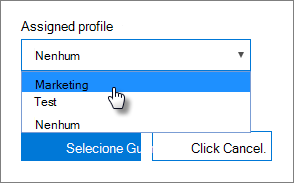
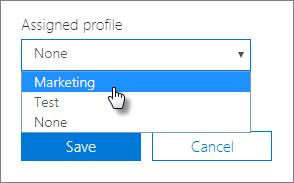
commit translated contents

diff --git a/microsoft-365/business/create-and-edit-autopilot-profiles.md b/microsoft-365/business/create-and-edit-autopilot-profiles.md
@@ -26,13 +26,13 @@ search.appverid:
 - MET150
 - MOE150
 ms.assetid: 5cf7139e-cfa1-4765-8aad-001af1c74faa
-description: Aprenda a criar um perfil AutoPilot e aplique-o num dispositivo, bem como edite ou elimine um perfil ou remova um perfil de um dispositivo.
-ms.openlocfilehash: 414243da88fb6f39f8e6067d19d49ffe955f725f
-ms.sourcegitcommit: 53acc851abf68e2272e75df0856c0e16b0c7e48d
+description: Saiba como criar um perfil AutoPilot e aplicá-lo a um dispositivo, bem como editar ou eliminar um perfil ou remover um perfil de um dispositivo.
+ms.openlocfilehash: d2a3038346b7879006dc2eb50ebe2e70cc6fae92c020a38465cec9d468c638b2
+ms.sourcegitcommit: a1b66e1e80c25d14d67a9b46c79ec7245d88e045
 ms.translationtype: MT
 ms.contentlocale: pt-PT
-ms.lasthandoff: 04/02/2021
-ms.locfileid: "51580260"
+ms.lasthandoff: 08/05/2021
+ms.locfileid: "53797232"
 ---
 # <a name="create-and-edit-autopilot-profiles"></a>Criar e editar perfis AutoPilot
 
@@ -40,21 +40,21 @@ ms.locfileid: "51580260"
 
 Um perfil aplica-se a um dispositivo ou grupo de dispositivos.
   
-1. No centro de administração Microsoft 365, escolha **Dispositivos** \> **AutoPilot**.
+1. Na seta centro de administração do Microsoft 365, **selecionar Dispositivos** \> **AutoPilot**.
   
-2. Na página **AutoPilot,** escolha o **separador Perfis** \> **Criar perfil.**
+2. Na página **AutoPilot,** selecionar o **separador Perfis** \> **Criar perfil.**
     
-3. Na página de **perfil Criar,** insira um nome para o perfil que o ajuda a identificá-lo, por exemplo Marketing. Ligue a definição desejada e, em seguida, escolha **Guardar**. Para obter mais informações sobre as definições de perfil do AutoPilot, consulte [as definições de Perfil do AutoPilot](autopilot-profile-settings.md).
+3. Na página **Criar perfil,** introduza um nome para o perfil que o ajude a identificá-lo, por exemplo Marketing. A turn on the setting you want, and then choose **Save**. Para obter mais informações sobre as definições de perfil AutoPilot, consulte [Acerca das definições do Perfil AutoPilot.](autopilot-profile-settings.md)
     
     ![Enter name and turn on settings in the Create profile panel.](../media/63b5a00d-6a5d-48d0-9557-e7531e80702a.png)
   
 ### <a name="apply-profile-to-a-device"></a>Aplicar o perfil a um dispositivo
 
-Depois de criar um perfil, pode aplicá-lo a um dispositivo ou a um grupo de dispositivos. Pode escolher um perfil existente no [guia passo a passo](add-autopilot-devices-and-profile.md) e aplicá-lo a novos dispositivos, ou substituir um perfil existente para um dispositivo ou grupo de dispositivos. 
+Depois de criar um perfil, pode aplicá-lo a um dispositivo ou grupo de dispositivos. Pode escolher um perfil existente no guia passo a passo e [aplicá-lo](add-autopilot-devices-and-profile.md) a novos dispositivos ou substituir um perfil existente por um dispositivo ou grupo de dispositivos. 
   
 1. Na página **Preparar Windows**, selecione o separador **Dispositivos**. 
     
-2. Selecione a caixa de verificação ao lado de um nome do dispositivo e, no painel **dispositivo,** escolha um perfil da lista de down-down de **perfil atribuído** \> **Save**.
+2. Selecione a caixa de verificação junto  ao nome de um  dispositivo e, no painel Dispositivo, selecione um perfil a partir da lista de listas de perfil atribuído \> **Guardar.**
     
     ![In the Device panel, select an Assigned profile to apply it.](../media/ed0ce33f-9241-4403-a5de-2dddffdc6fb9.png)
   
@@ -66,7 +66,7 @@ Depois de atribuir um perfil a um dispositivo, pode atualizá-lo, mesmo se já t
 
 1. Na página **Preparar Windows**, selecione o separador **Perfis**. 
     
-2. Selecione a caixa de verificação ao lado de um nome do dispositivo e no painel **Profile,** atualize qualquer uma das definições disponíveis \> **Guarde**.
+2. Selecione a caixa de verificação junto ao nome do dispositivo e, no **painel Perfil,** atualize qualquer uma das definições \> **disponíveis Guardar.**
     
     Se o fizer antes de um utilizador ligar o dispositivo à Internet, o perfil será aplicado no processo de configuração.
     
@@ -74,7 +74,7 @@ Depois de atribuir um perfil a um dispositivo, pode atualizá-lo, mesmo se já t
 
 1. Na página **Preparar Windows**, selecione o separador **Perfis**. 
     
-2. Selecione a caixa de verificação ao lado de um nome do dispositivo e no painel **Profile,** selecione **Eliminar perfil** \> **Guardar**.
+2. Selecione a caixa de verificação junto ao nome de um dispositivo e, no **painel Perfil,** selecione **Eliminar perfil** \> **Guardar**.
     
     Quando eliminar um perfil, o mesmo será removido do dispositivo ou grupo de dispositivos ao qual estava atribuído.
     
@@ -82,5 +82,5 @@ Depois de atribuir um perfil a um dispositivo, pode atualizá-lo, mesmo se já t
 
 1. Na página **Preparar Windows**, selecione o separador **Dispositivos**. 
     
-2. Selecione a caixa de verificação ao lado de um nome do dispositivo e, no painel **do Dispositivo,** escolha **Nenhuma** da lista de recuo do **perfil atribuído** \> **Guarde**.
+2. Selecione a caixa de verificação ao  lado do nome de um dispositivo e, no painel Dispositivo, selecione **Nenhum** na lista de listas drop-down **perfil** atribuído \> **Guardar.**
     

diff --git a/microsoft-365/business/help-users-install-office.md b/microsoft-365/business/help-users-install-office.md
@@ -26,19 +26,19 @@ search.appverid:
 - BCS160
 - MET150
 ms.assetid: cbc6bfe5-565a-4fb8-95f0-b06e7b74ac46
-description: Ajude os seus utilizadores a instalar Office aplicações em Windows 10 dispositivos e instalar facilmente o Office em PCs Windows 10 a partir do Microsoft 365 de administração.
-ms.openlocfilehash: 74c17533995b74655be57524b77d9c508f703c50
-ms.sourcegitcommit: ff20f5b4e3268c7c98a84fb1cbe7db7151596b6d
+description: Ajude os seus utilizadores a instalar Office aplicações em Windows 10 dispositivos e instale o Office em PCs Windows 10 a partir da centro de administração do Microsoft 365.
+ms.openlocfilehash: bfd0d9baba177bd68b4d3174eba7c5ffb3a38aa8c690c7b8314e5b298bdbdfc1
+ms.sourcegitcommit: a1b66e1e80c25d14d67a9b46c79ec7245d88e045
 ms.translationtype: MT
 ms.contentlocale: pt-PT
-ms.lasthandoff: 05/06/2021
-ms.locfileid: "52245170"
+ms.lasthandoff: 08/05/2021
+ms.locfileid: "53821021"
 ---
 # <a name="help-your-users-install-office-on-windows-10-devices"></a>Ajude os seus utilizadores a instalar Office em Windows 10 dispositivos
 
 [![Etiqueta que informa que o centro de administração está a mudar e que pode encontrar mais detalhes em aka.ms/aboutM365preview.](../media/m365admincenterchanging.png)](/office365/admin/microsoft-365-admin-center-preview)
 
-Pode instalar o seu Office em PCs Windows 10 rápido a partir do Microsoft 365 de administração.
+Pode instalar o Office em PCs Windows 10 a partir da centro de administração do Microsoft 365.
   
 Para compreender como este processo funciona em aplicações do Office instaladas anteriormente, leia o artigo [Prepare for Office client installation (Preparar a instalação do cliente do Office)](prepare-for-office-client-deployment.md) antes de começar.
 
